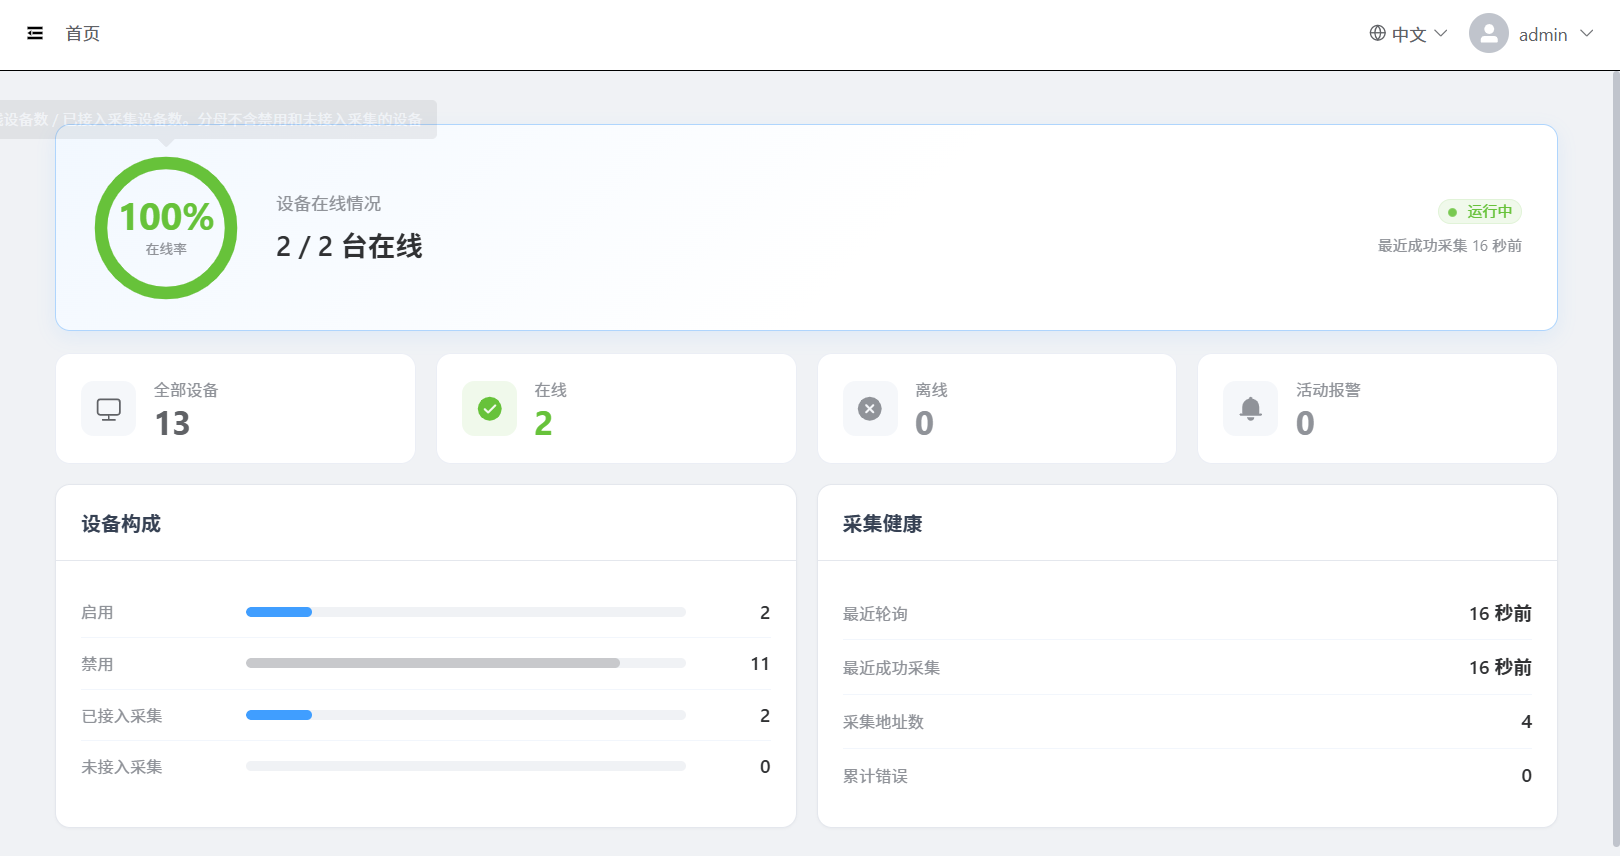
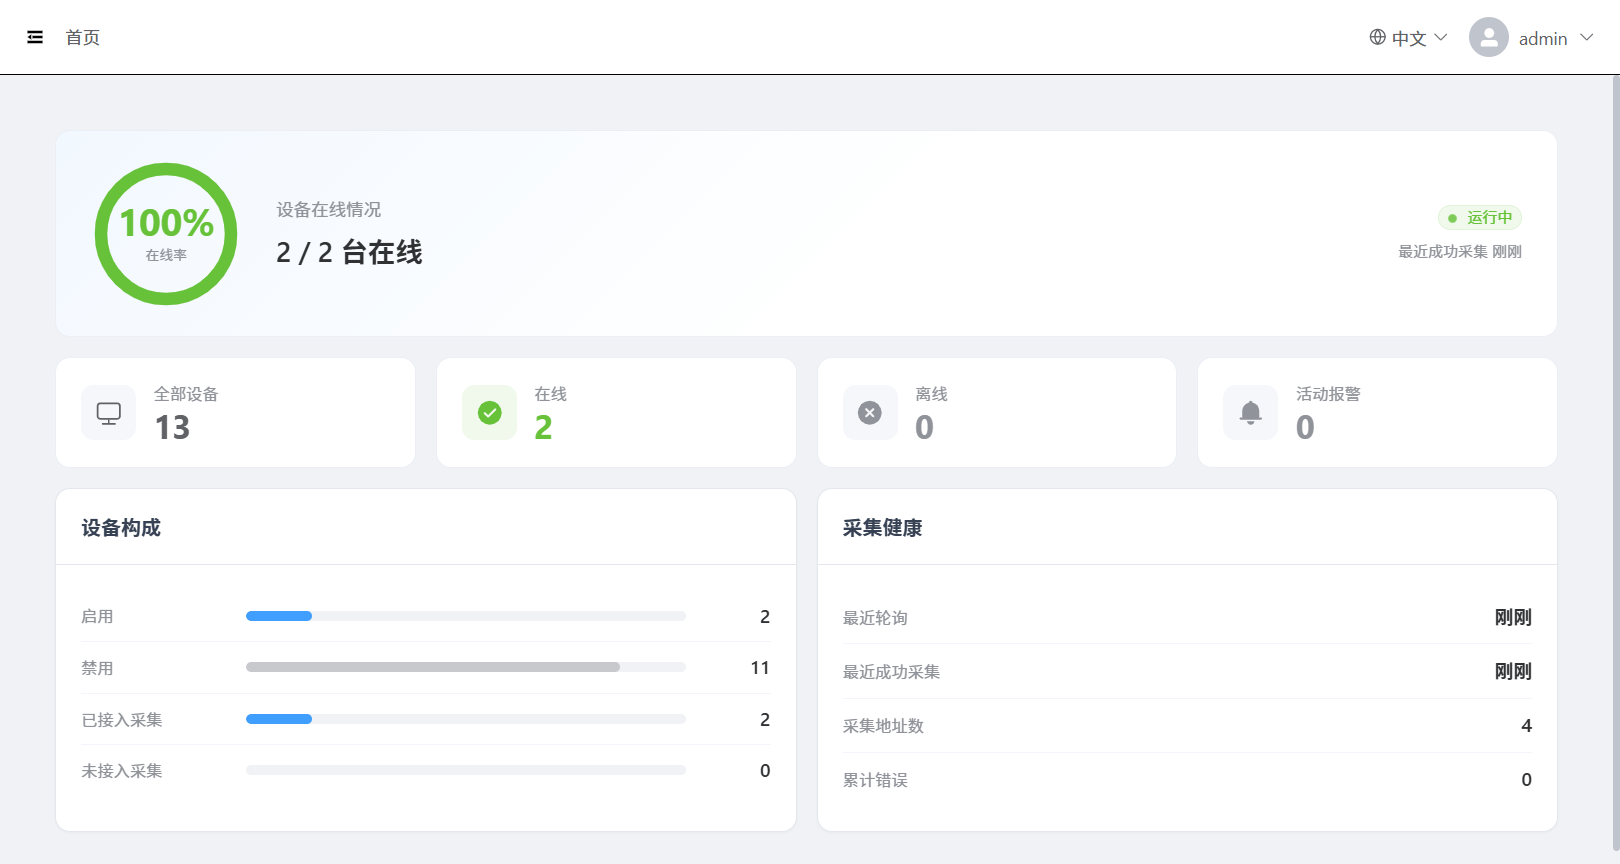
readme: play the demo as an animated GIF, since Gitee cannot play the video
Neither link form worked. The <video> tag is sanitized out of the README
by Gitee and GitHub, and Gitee's raw URL answers 200 with Content-Type
video/mp4 but also Content-Disposition: attachment -- an explicit
instruction to save the file rather than render it. Range requests do
work (206 on a bytes=0-1023 probe), so the file itself is fine; Gitee
just is not a video host, and no URL can fix that.

A GIF is an img, so it is the only form that actually moves on the
README page. Both cuts are the opening of the demo -- login click,
dashboard fade-in -- and end on the populated dashboard, so the loop
does not land on a half-loaded frame.

Cut points came from contact sheets rather than by feel: the Chinese
demo holds the dashboard from ~5.5s to ~10.5s and the English one from
~5.5s to ~8.8s, so each clip is that window with the login click in
front of it. Both are 12 fps at 1000px through a generated palette,
which keeps them at 729 KB and 688 KB.

The full videos stay in docs/video/ and each GIF links to its own, so
the complete tour is one click away. The static covers stay too -- an
article under docs/articles/ still embeds dashboard.zh.png.

diff --git a/README.en.md b/README.en.md
@@ -4,13 +4,14 @@ English | [简体中文](README.md)
 
 **iot-gateway** is a ready-to-run industrial IoT data acquisition gateway: it polls PLCs and industrial devices on a schedule, pushes collected data to downstream channels such as MQTT, TDEngine and InfluxDB, and ships with an embedded web admin console. The whole system is deployed to gateways or industrial PCs as a **single binary** — no external database required.
 
-<!-- Admin console tour: a clickable cover in place of <video> -- Gitee/GitHub
-     sanitize the video tag away and leave nothing rendered, while an image
-     renders everywhere. Cover is the redesigned dashboard; it links to the
-     EN-locale demo video under docs/video/ -->
-[![Admin console](docs/images/dashboard.en.png)](docs/video/demo%20video.mp4)
+<!-- Admin console tour: an animated GIF -- the only form that actually moves
+     on Gitee/GitHub. The video tag is sanitized away, and the raw URL sends
+     Content-Disposition: attachment, which downloads instead of playing.
+     The GIF is the opening of the demo (login -> dashboard); clicking it
+     downloads the full video under docs/video/. -->
+[![Admin console](docs/images/demo.en.gif)](docs/video/demo%20video.mp4)
 
-*Click the cover to play the demo video*
+*Click the GIF to download the full demo (62 s)*
 
 
 ## Features

diff --git a/README.md b/README.md
@@ -4,12 +4,13 @@
 
 **iot-gateway** 是一个开箱即用的工业物联网数据采集网关：定时轮询 PLC / 工业设备，将采集数据推送至 MQTT、TDEngine、InfluxDB 等下游通道，并提供内嵌的 Web 管理控制台。整体以 **单二进制** 形式部署到网关设备或工控机，无需外部数据库。
 
-<!-- 管理控制台概览：以可点击封面代替 <video> —— Gitee/GitHub 的 Markdown 清洗器
-     会丢弃 video 标签，页面上一片空白；图片则任何平台都能渲染。
-     封面为改版后的大盘截图，点击进入 docs/video/ 下的中文版演示视频 -->
-[![管理控制台概览](docs/images/dashboard.zh.png)](docs/video/演示视频.mp4)
+<!-- 管理控制台概览：动图是唯一能在 Gitee/GitHub 上直接动起来的形式 ——
+     <video> 标签会被 Markdown 清洗器丢弃，而 raw 链接又带
+     Content-Disposition: attachment，点了只会下载、不会播放。
+     动图截自演示视频开头（登录 → 大盘），点击可下载完整视频。 -->
+[![管理控制台概览](docs/images/demo.zh.gif)](docs/video/演示视频.mp4)
 
-*点击封面观看演示视频*
+*点击动图下载完整演示视频（90 秒）*
 
 
 ## 功能特性
